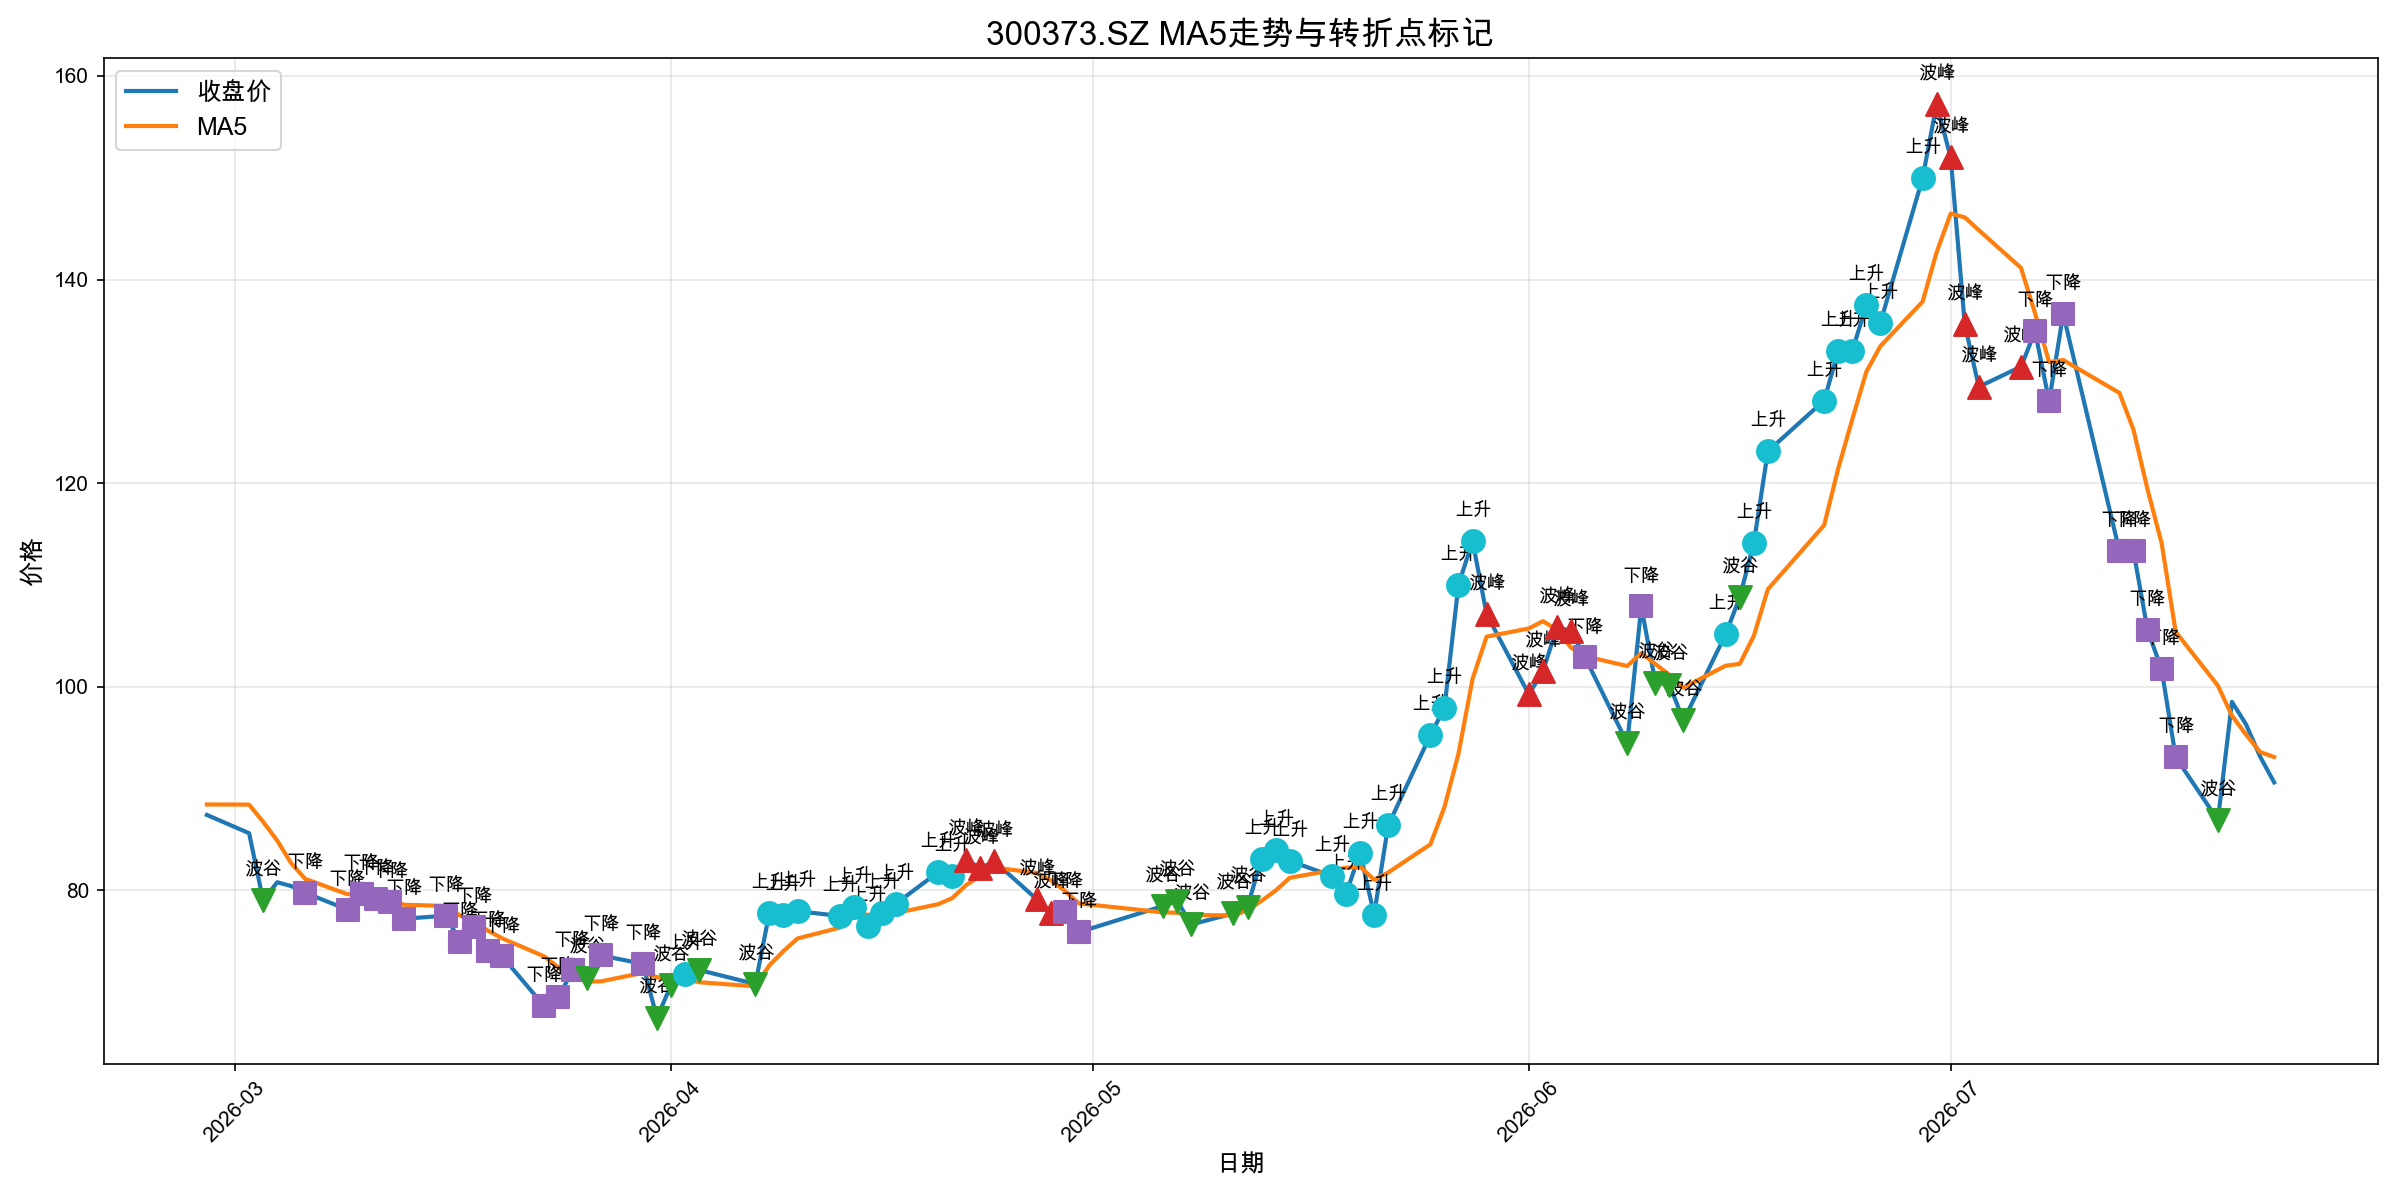
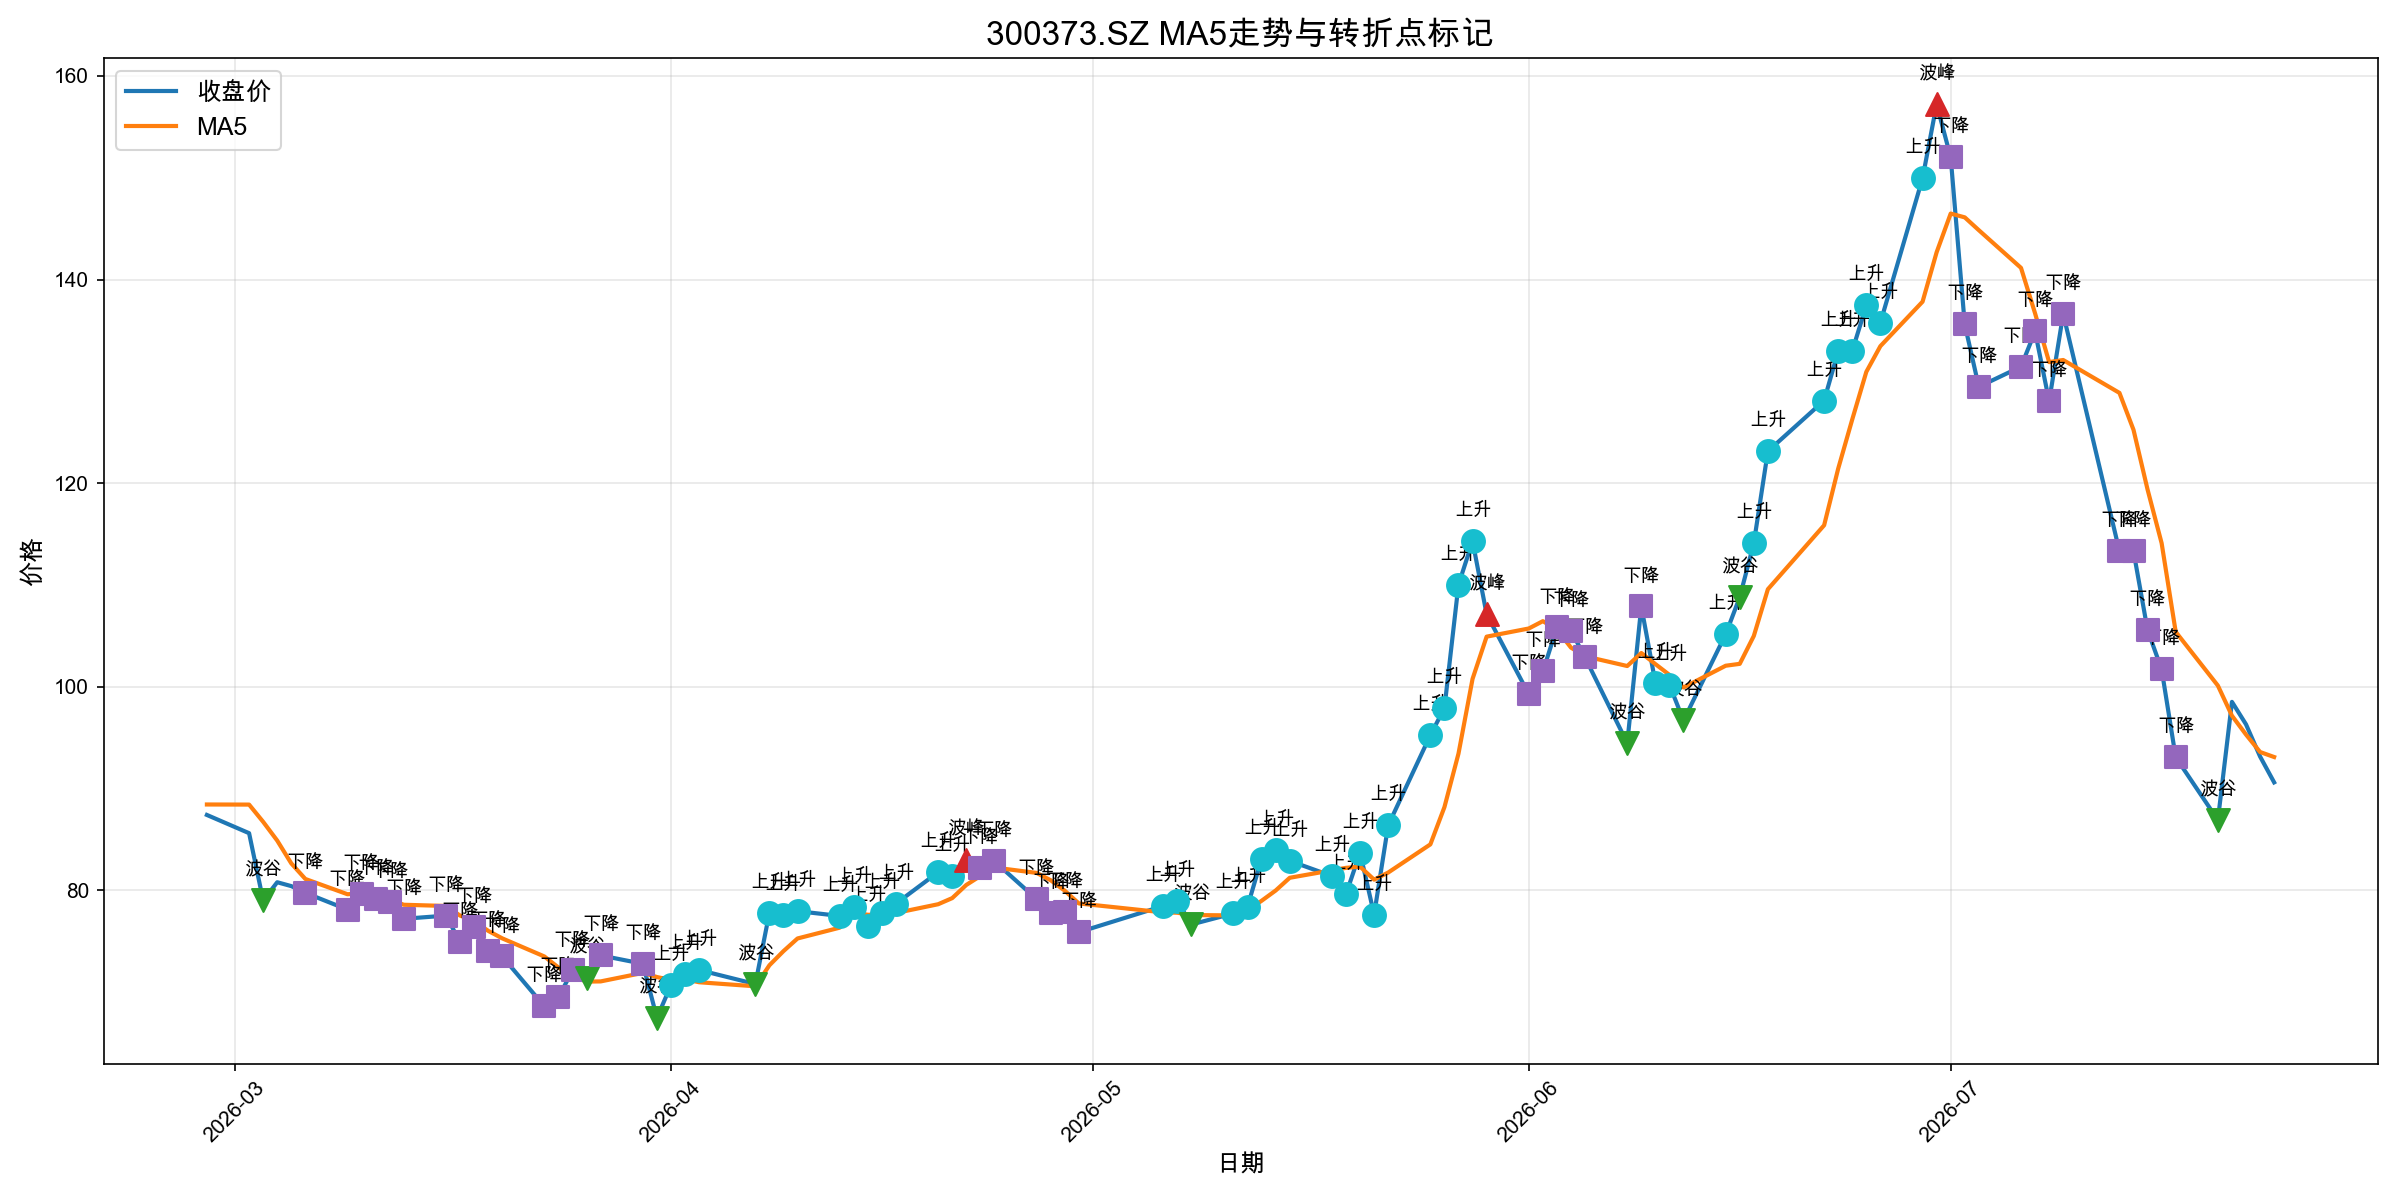
新增plot_turning_point_300373v6.py，根据MA5走势绘制转折点图

diff --git a/plot_turning_point_300373v6.py b/plot_turning_point_300373v6.py
@@ -1,0 +1,121 @@
+#!/usr/bin/env python3
+# -*- coding: utf-8 -*-
+
+import os
+import sys
+import matplotlib.pyplot as plt
+import pandas as pd
+
+sys.path.append(os.path.dirname(os.path.abspath(__file__)))
+from mysql_connection import get_mysql_connection, close_connection
+
+plt.rcParams['font.sans-serif'] = ['Arial Unicode MS', 'SimHei', 'STHeiti']
+plt.rcParams['axes.unicode_minus'] = False
+
+def read_stock_data():
+    connection = get_mysql_connection()
+    if not connection:
+        print("❌ 数据库连接失败")
+        return None
+
+    query_sql = """
+    SELECT
+        ts_code,
+        trade_date,
+        ma5,
+        turning_point
+    FROM stock_daily_t
+    WHERE ts_code = '300373.SZ'
+    ORDER BY trade_date DESC
+    LIMIT 100
+    """
+
+    try:
+        with connection.cursor() as cursor:
+            cursor.execute(query_sql)
+            results = cursor.fetchall()
+        print(f"✅ 成功读取 {len(results)} 条数据")
+        close_connection(connection)
+        return results
+    except Exception as e:
+        print(f"❌ 查询数据失败: {e}")
+        close_connection(connection)
+        return None
+
+def plot_chart(data):
+    records = sorted(data, key=lambda x: x['trade_date'])
+
+    dates = [pd.to_datetime(r['trade_date']) for r in records]
+    ma5_values = [float(r['ma5']) if r['ma5'] is not None else None for r in records]
+    turning_points = [r['turning_point'] for r in records]
+
+    fig, ax1 = plt.subplots(figsize=(16, 8))
+
+    ax1.plot(dates, ma5_values, label='MA5', color='#ff7f0e', linewidth=2)
+
+    tag_colors = {
+        '波峰': '#d62728',
+        '波谷': '#2ca02c',
+        '上升': '#17becf',
+        '下降': '#9467bd',
+        '波中': '#7f7f7f'
+    }
+
+    tag_markers = {
+        '波峰': '^',
+        '波谷': 'v',
+        '上升': 'o',
+        '下降': 's',
+        '波中': 'D'
+    }
+
+    for i, (date, ma5, tag) in enumerate(zip(dates, ma5_values, turning_points)):
+        if tag and tag in tag_colors and ma5 is not None:
+            ax1.scatter(date, ma5, color=tag_colors[tag], marker=tag_markers[tag], s=120, zorder=5)
+            ax1.annotate(tag, (date, ma5), textcoords="offset points", xytext=(0, 12), ha='center', fontsize=9, fontweight='bold')
+
+    ax1.set_xlabel('日期', fontsize=12)
+    ax1.set_ylabel('MA5', fontsize=12)
+    ax1.set_title('300373.SZ MA5走势与转折点标记', fontsize=16, fontweight='bold')
+    ax1.legend(loc='upper left', fontsize=12)
+    ax1.grid(True, alpha=0.3)
+
+    plt.xticks(rotation=45)
+    plt.tight_layout()
+
+    output_path = os.path.join(os.path.dirname(os.path.abspath(__file__)), '300373v6.png')
+    plt.savefig(output_path, dpi=150)
+    print(f"✅ 图片已保存: {output_path}")
+
+    plt.close()
+
+def print_turning_points(data):
+    records = sorted(data, key=lambda x: x['trade_date'])
+    print("\n" + "=" * 80)
+    print("转折点数据")
+    print("=" * 80)
+    print(f"{'日期':<12} {'MA5':<10} {'turning_point':<8}")
+    print("-" * 80)
+    for r in records:
+        tp = r['turning_point'] if r['turning_point'] else '无'
+        ma5 = f"{float(r['ma5']):.2f}" if r['ma5'] else 'None'
+        print(f"{r['trade_date']:<12} {ma5:<10} {tp:<8}")
+    print("=" * 80)
+
+def main():
+    print("=" * 80)
+    print("300373.SZ MA5走势与转折点标记")
+    print("=" * 80)
+
+    data = read_stock_data()
+
+    if not data:
+        print("❌ 没有获取到数据，退出程序")
+        return
+
+    print_turning_points(data)
+
+    plot_chart(data)
+
+if __name__ == "__main__":
+    main()
